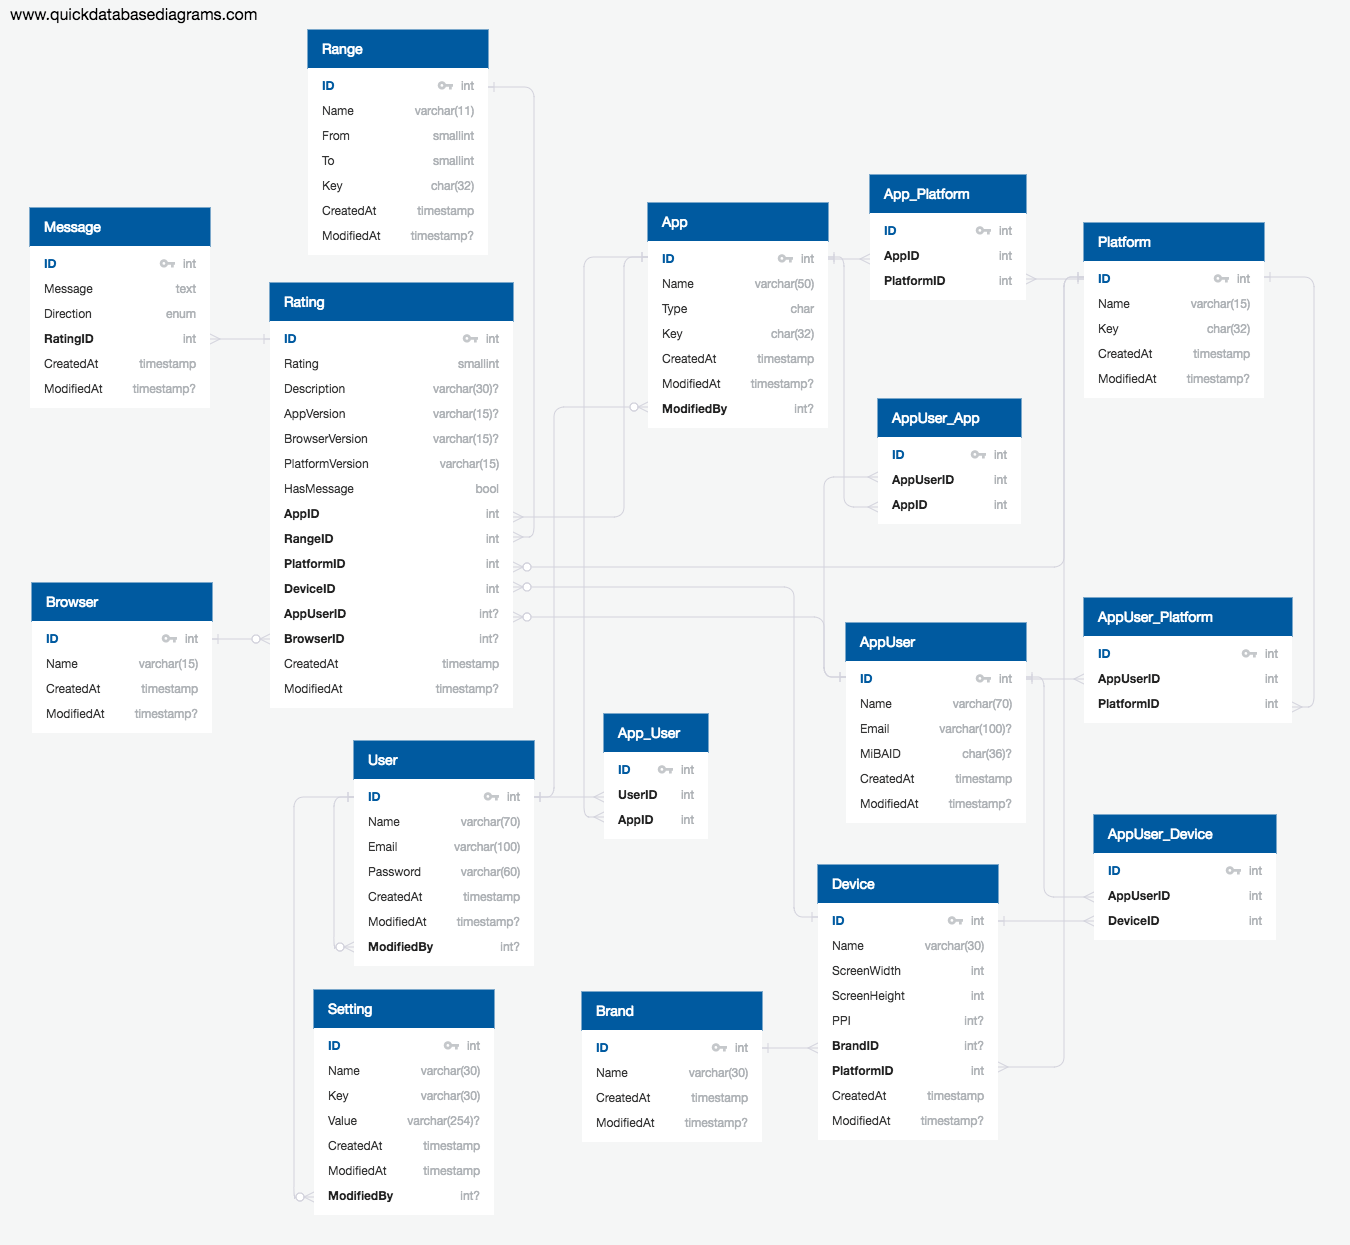
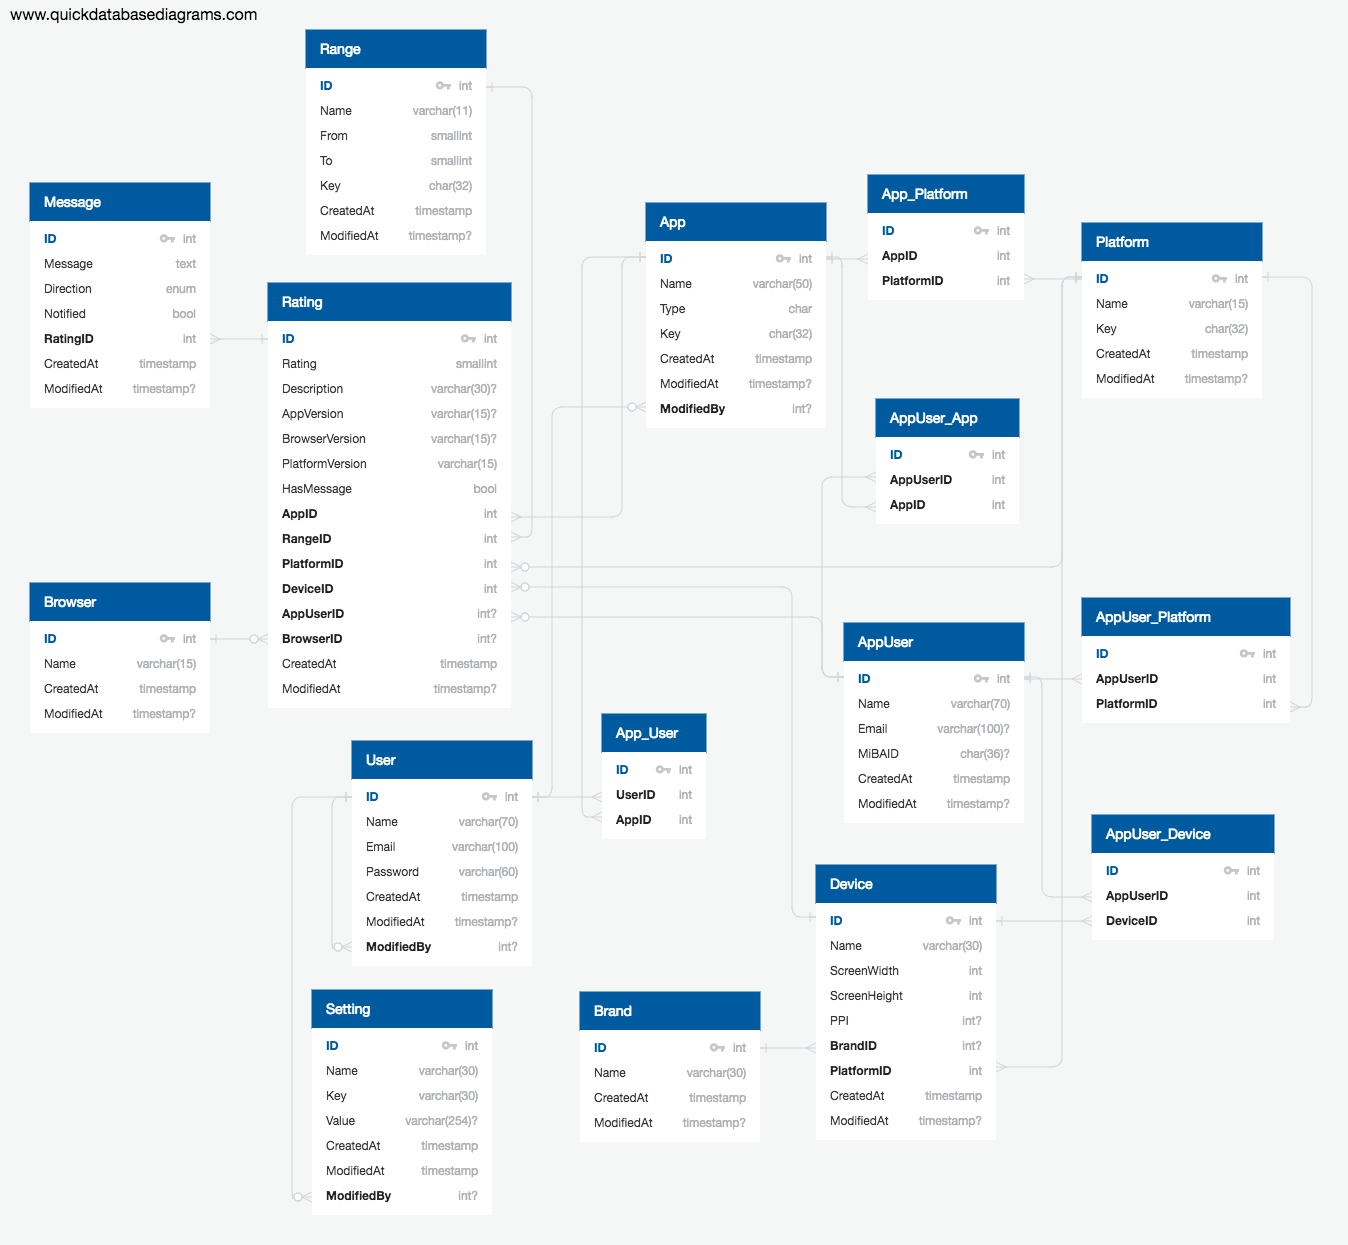
Updated docs

diff --git a/docs/estructura/datos.md b/docs/estructura/datos.md
@@ -215,14 +215,15 @@ Los mensajes de las conversaciones con los usuarios de las apps que enviaron cal
 
 - **One-to-many** con Rating, a través de `rating_id`
 
-|Campos          |Tipo                  | FK?   | Null? |Unique?|Index? |
-|----------------|----------------------|:-----:|:-----:|:-----:|:-----:|
-|id              |int (PK)              |       |       |       |       |
-|message         |text                  |       |       |       |       |
-|direction       |enum                  |       |       |       |X      |
-|rating_id       |int                   |X      |       |       |X      |
-|created_at      |timestamp             |       |       |       |       |
-|modified_at     |timestamp             |       |X      |       |       |
+|Campos          |Tipo                  |Default| FK?   | Null? |Unique?|Index? |
+|----------------|----------------------|-------|:-----:|:-----:|:-----:|:-----:|
+|id              |int (PK)              |       |       |       |       |       |
+|message         |text                  |       |       |       |       |       |
+|direction       |enum                  |       |       |       |       |X      |
+|notified        |bool                  |false  |       |       |       |X      |
+|rating_id       |int                   |       |X      |       |       |X      |
+|created_at      |timestamp             |       |       |       |       |       |
+|modified_at     |timestamp             |       |       |X      |       |       |
 
 ### Range
 

diff --git a/docs/desarrollo/sprint11.md b/docs/desarrollo/sprint11.md
@@ -7,11 +7,18 @@
 
 ## Objetivo
 
-Reemplazar el sistema de autenticación con Active Directory.
+Reemplazar el sistema de autenticación con Active Directory. Obtener inbound emails vía Mailgun.
 
 ## Tareas
 
 ### Admin
 
 1. Integrar un cliente SOAP
+
 2. Crear un nuevo User Provider
+
+3. Integrar Mailgun
+
+4. Obtener los mensajes vía Mailgun
+
+5. Separar la vista de mensajes en master/detail
